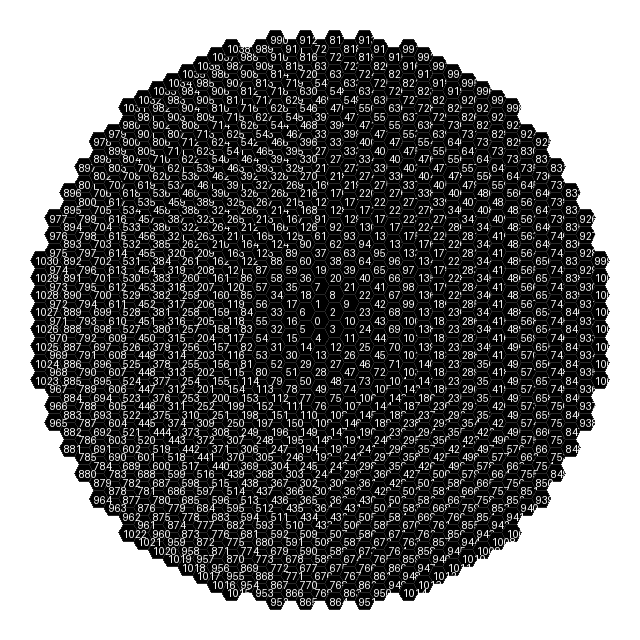
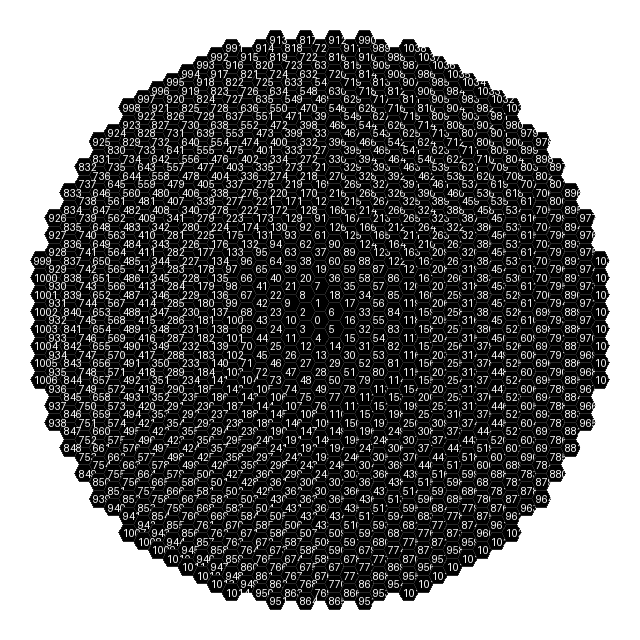
correctly set hex pixels order to be anti-clockwise spiral

Changed region(s): [[0.0625, 0.0625, 0.9375, 0.9688], [0.9375, 0.5625, 0.9688, 0.5938]]

diff --git a/sampleGeneration/PlaneGenerators.py b/sampleGeneration/PlaneGenerators.py
@@ -30,12 +30,21 @@ class HexagonPlaneGenerator(IPlaneGenerator):
 
         # Define axial directions for hex grid
         directions = [
-            (1, 0),    # Southeast
-            (0, 1),    # East
+            # Anti-clockwise
             (-1, 1),    # Southwest
-            (-1, 0),    # Northwest
-            (0, -1),    # North
+            (0, 1),     # South
+            (1, 0),     # Southeast
             (1, -1),    # Northeast
+            (0, -1),    # North
+            (-1, 0),    # Northwest
+            
+            # OLD: clockwise directions
+            # (1, 0),    # Southeast
+            # (0, 1),    # South
+            # (-1, 1),    # Southwest
+            # (-1, 0),    # Northwest
+            # (0, -1),    # North
+            # (1, -1),    # Northeast
         ]
 
         # Mapping from axial coordinates to pixel positions
